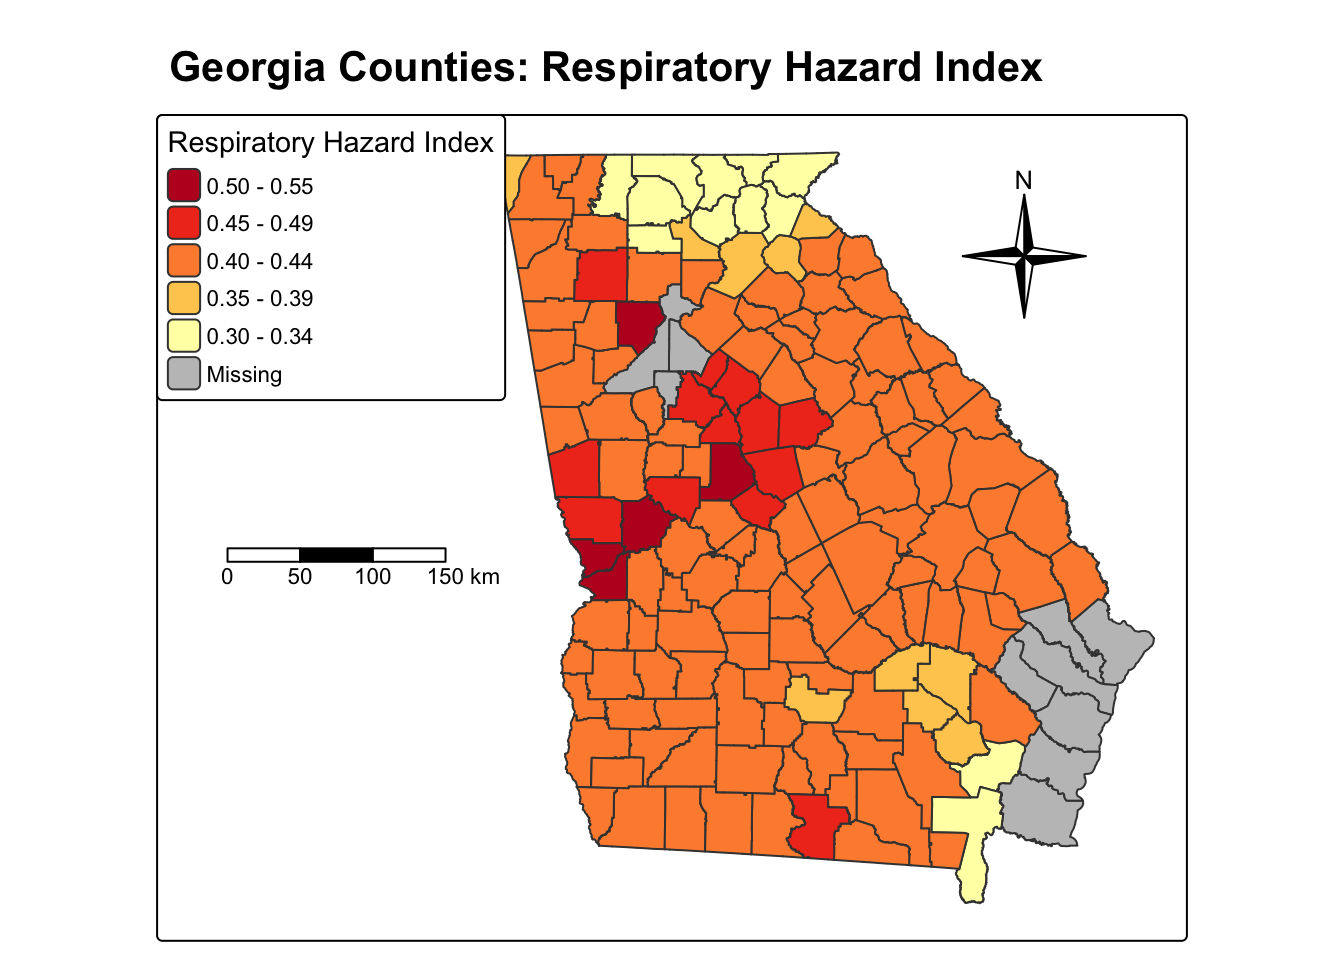
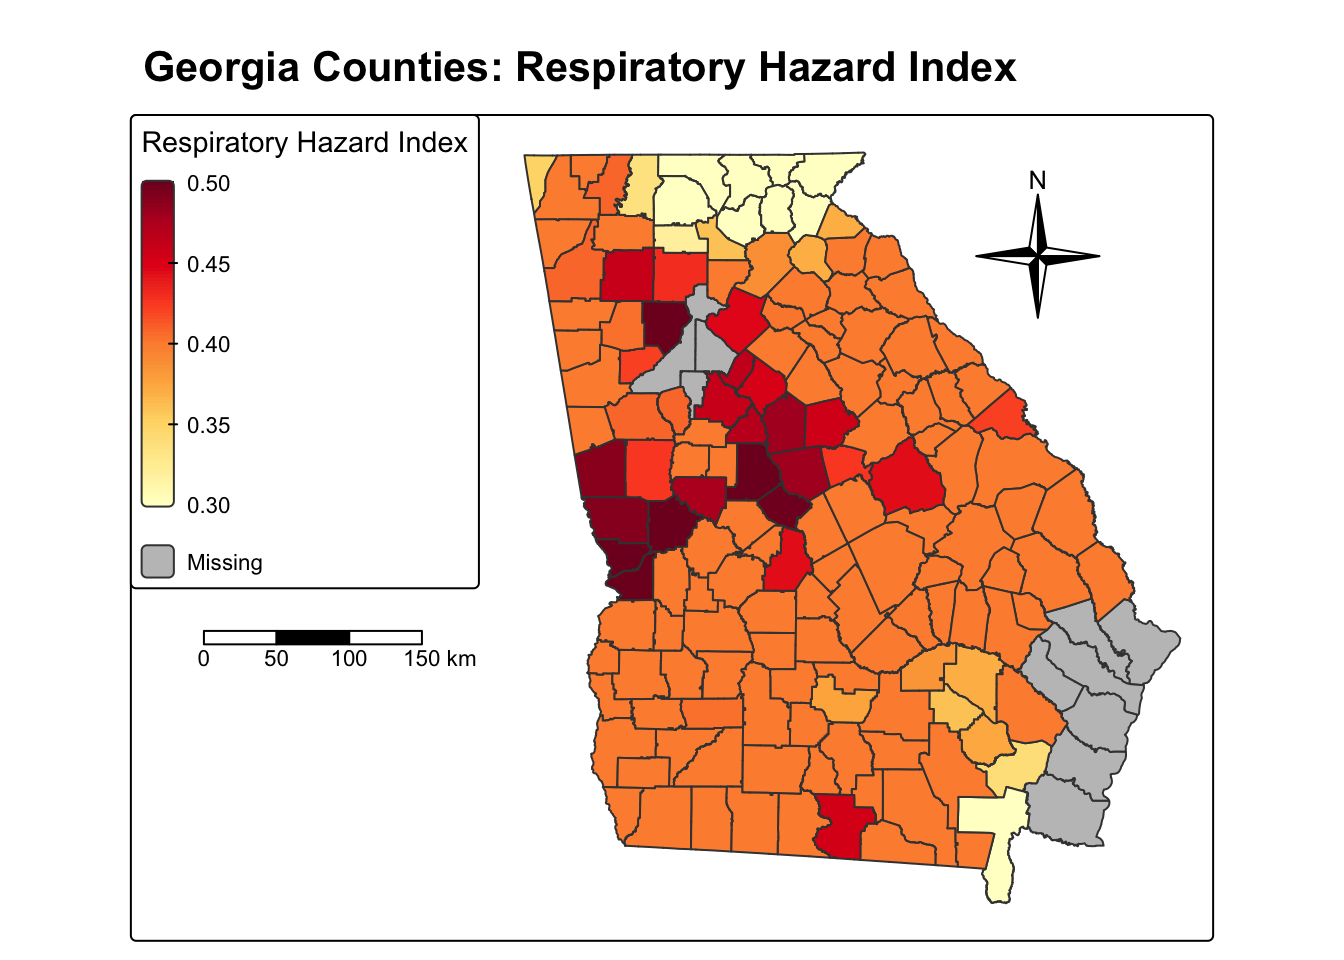
Update second legend and scalebar

diff --git a/eds223-hw1/ej_screen.html b/eds223-hw1/ej_screen.html
@@ -142,7 +142,7 @@ Projected CRS: WGS 84 / Pseudo-Mercator</code></pre>
 <span id="cb5-9"><a href="#cb5-9" aria-hidden="true" tabindex="-1"></a>                                      <span class="at">labels =</span> <span class="fu">c</span>(<span class="st">"100%"</span>, <span class="st">"80%"</span>, <span class="st">"60%"</span>, <span class="st">"40%"</span>, <span class="st">"20%"</span>, <span class="st">"0%"</span>))) <span class="sc">+</span></span>
 <span id="cb5-10"><a href="#cb5-10" aria-hidden="true" tabindex="-1"></a>  <span class="fu">tm_title</span>(<span class="at">text =</span> <span class="st">"Georgia Counties: Percent People of Color"</span>, <span class="at">fontface =</span> <span class="st">'bold'</span>) <span class="sc">+</span></span>
 <span id="cb5-11"><a href="#cb5-11" aria-hidden="true" tabindex="-1"></a>  <span class="fu">tm_compass</span>(<span class="at">position =</span> <span class="fu">c</span>(<span class="fl">0.76</span>, <span class="fl">0.95</span>), <span class="at">type =</span> <span class="st">'4star'</span>) <span class="sc">+</span> <span class="co"># Add compass</span></span>
-<span id="cb5-12"><a href="#cb5-12" aria-hidden="true" tabindex="-1"></a>  <span class="fu">tm_scalebar</span>(<span class="at">position =</span> <span class="fu">c</span>(<span class="fl">0.05</span>, <span class="fl">0.65</span>), <span class="at">text.size =</span> <span class="fl">0.7</span>) <span class="sc">+</span> <span class="co"># Add scale bar</span></span>
+<span id="cb5-12"><a href="#cb5-12" aria-hidden="true" tabindex="-1"></a>  <span class="fu">tm_scalebar</span>(<span class="at">position =</span> <span class="fu">c</span>(<span class="fl">0.05</span>, <span class="fl">0.4</span>), <span class="at">text.size =</span> <span class="fl">0.7</span>) <span class="sc">+</span> <span class="co"># Add scale bar</span></span>
 <span id="cb5-13"><a href="#cb5-13" aria-hidden="true" tabindex="-1"></a>  <span class="fu">tm_layout</span>(<span class="at">legend.position =</span> <span class="fu">c</span>(<span class="dv">0</span>, <span class="dv">1</span>), <span class="co"># Adjust legend position</span></span>
 <span id="cb5-14"><a href="#cb5-14" aria-hidden="true" tabindex="-1"></a>            <span class="at">inner.margins =</span> <span class="fu">c</span>(<span class="fl">0.05</span>, <span class="fl">0.6</span>, <span class="fl">0.05</span>, <span class="fl">0.05</span>)) </span></code><button title="Copy to Clipboard" class="code-copy-button"><i class="bi"></i></button></pre></div>
 <div class="cell-output-display">
@@ -158,13 +158,13 @@ Projected CRS: WGS 84 / Pseudo-Mercator</code></pre>
 <span id="cb6-2"><a href="#cb6-2" aria-hidden="true" tabindex="-1"></a><span class="fu">tm_shape</span>(georgia_counties_means) <span class="sc">+</span></span>
 <span id="cb6-3"><a href="#cb6-3" aria-hidden="true" tabindex="-1"></a>  <span class="fu">tm_crs</span>(<span class="dv">4326</span>) <span class="sc">+</span></span>
 <span id="cb6-4"><a href="#cb6-4" aria-hidden="true" tabindex="-1"></a>  <span class="fu">tm_polygons</span>(<span class="at">fill =</span> <span class="st">"RESP"</span>,</span>
-<span id="cb6-5"><a href="#cb6-5" aria-hidden="true" tabindex="-1"></a>              <span class="at">fill.scale =</span> <span class="fu">tm_scale</span>(<span class="at">values =</span> <span class="st">'brewer.yl_or_rd'</span>),</span>
+<span id="cb6-5"><a href="#cb6-5" aria-hidden="true" tabindex="-1"></a>              <span class="at">fill.scale =</span> <span class="fu">tm_scale_continuous</span>(<span class="at">values =</span> <span class="st">'brewer.yl_or_rd'</span>),</span>
 <span id="cb6-6"><a href="#cb6-6" aria-hidden="true" tabindex="-1"></a>              <span class="at">fill.legend =</span> <span class="fu">tm_legend</span>(<span class="at">title =</span> <span class="st">"Respiratory Hazard Index"</span>, <span class="at">reverse =</span> <span class="cn">TRUE</span>)) <span class="sc">+</span></span>
 <span id="cb6-7"><a href="#cb6-7" aria-hidden="true" tabindex="-1"></a>  <span class="fu">tm_title</span>(<span class="at">text =</span> <span class="st">"Georgia Counties: Respiratory Hazard Index"</span>, <span class="at">fontface =</span> <span class="st">'bold'</span>) <span class="sc">+</span></span>
 <span id="cb6-8"><a href="#cb6-8" aria-hidden="true" tabindex="-1"></a>  <span class="fu">tm_compass</span>(<span class="at">position =</span> <span class="fu">c</span>(<span class="fl">0.76</span>, <span class="fl">0.95</span>), <span class="at">type =</span> <span class="st">'4star'</span>) <span class="sc">+</span></span>
-<span id="cb6-9"><a href="#cb6-9" aria-hidden="true" tabindex="-1"></a>  <span class="fu">tm_scalebar</span>(<span class="at">position =</span> <span class="fu">c</span>(<span class="fl">0.05</span>, <span class="fl">0.5</span>), <span class="at">text.size =</span> <span class="fl">0.7</span>) <span class="sc">+</span></span>
+<span id="cb6-9"><a href="#cb6-9" aria-hidden="true" tabindex="-1"></a>  <span class="fu">tm_scalebar</span>(<span class="at">position =</span> <span class="fu">c</span>(<span class="fl">0.05</span>, <span class="fl">0.4</span>), <span class="at">text.size =</span> <span class="fl">0.7</span>) <span class="sc">+</span></span>
 <span id="cb6-10"><a href="#cb6-10" aria-hidden="true" tabindex="-1"></a>  <span class="fu">tm_layout</span>(<span class="at">legend.position =</span> <span class="fu">c</span>(<span class="dv">0</span>, <span class="dv">1</span>),</span>
-<span id="cb6-11"><a href="#cb6-11" aria-hidden="true" tabindex="-1"></a>            <span class="at">inner.margins =</span> <span class="fu">c</span>(<span class="fl">0.05</span>, <span class="fl">0.52</span>, <span class="fl">0.05</span>, <span class="fl">0.05</span>))</span></code><button title="Copy to Clipboard" class="code-copy-button"><i class="bi"></i></button></pre></div>
+<span id="cb6-11"><a href="#cb6-11" aria-hidden="true" tabindex="-1"></a>            <span class="at">inner.margins =</span> <span class="fu">c</span>(<span class="fl">0.05</span>, <span class="fl">0.6</span>, <span class="fl">0.05</span>, <span class="fl">0.05</span>))</span></code><button title="Copy to Clipboard" class="code-copy-button"><i class="bi"></i></button></pre></div>
 <div class="cell-output-display">
 <div>
 <figure class="figure">
